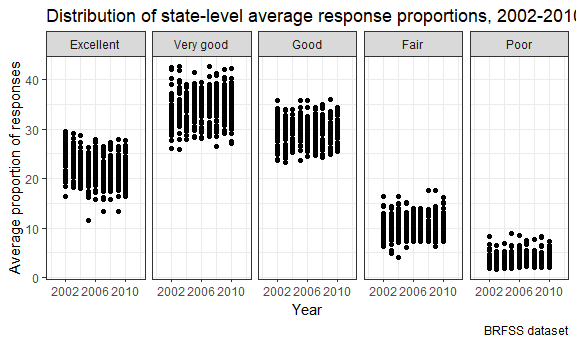
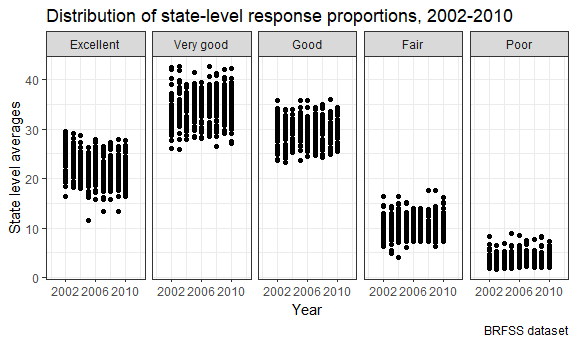
Instacart dataset and summary. Aisle summary, counts, and barplot.

Changed region(s): [[0.4062, 0.029, 1.0, 0.087], [0.0, 0.1739, 0.0625, 0.8116]]

diff --git a/p8105_hw3_azz2107.md b/p8105_hw3_azz2107.md
@@ -80,7 +80,7 @@ spaghetti_plot %>%
   theme(legend.position = "right")
 ```
 
-<img src="p8105_hw3_azz2107_files/figure-markdown_github/spaghetti_plot-1.png" width="90%" />
+<img src="p8105_hw3_azz2107_files/figure-markdown_github/spaghetti_plot-1.png" width="100%" />
 
 #### Descriptive variables for "Excellent" proportions in 2002, 2006, and 2010
 
@@ -116,17 +116,92 @@ response_df %>%
   scale_x_continuous(breaks = c(2002, 2006, 2010),
                      limits = c(2000, 2012)) + 
   labs(
-    title = "Distribution of state-level average response proportions, 2002-2010",
+    title = "Distribution of state-level response proportions, 2002-2010",
     x = "Year",
-    y = "Average proportion of responses",
+    y = "State level averages",
     caption = "BRFSS dataset"
   )
 ```
 
-<img src="p8105_hw3_azz2107_files/figure-markdown_github/response_df-1.png" width="90%" />
+<img src="p8105_hw3_azz2107_files/figure-markdown_github/response_df-1.png" width="100%" />
 
 Problem 2
 ---------
+
+#### Instacart summary
+
+``` r
+# Load instacard
+instacart_df = instacart
+
+instacart_df
+```
+
+    ## # A tibble: 1,384,617 x 15
+    ##    order_id product_id add_to_cart_ord~ reordered user_id eval_set
+    ##       <int>      <int>            <int>     <int>   <int> <chr>   
+    ##  1        1      49302                1         1  112108 train   
+    ##  2        1      11109                2         1  112108 train   
+    ##  3        1      10246                3         0  112108 train   
+    ##  4        1      49683                4         0  112108 train   
+    ##  5        1      43633                5         1  112108 train   
+    ##  6        1      13176                6         0  112108 train   
+    ##  7        1      47209                7         0  112108 train   
+    ##  8        1      22035                8         1  112108 train   
+    ##  9       36      39612                1         0   79431 train   
+    ## 10       36      19660                2         1   79431 train   
+    ## # ... with 1,384,607 more rows, and 9 more variables: order_number <int>,
+    ## #   order_dow <int>, order_hour_of_day <int>,
+    ## #   days_since_prior_order <int>, product_name <chr>, aisle_id <int>,
+    ## #   department_id <int>, aisle <chr>, department <chr>
+
+Instacart is an online grocery shopping company, and the instacard dataset contains information on online grocery orders from their customers. The instacart dataset includes 1384617 observations and 15 variables. Some of these key variables include product name, food aisle information (name, number, department), time or order (day of the week, hour of the day, days since last ordered). For example, there are 21 departments which range from snacks, frozen foods, to dairy and eggs...
+
+#### Aisle information
+
+There are 134 aisles in this dataset. Some examples of these include yogurt, fresh vegetables, and specialty cheeses. The aisle with the most counts of order. Most items are ordered from the fresh vegetable, fresh fruit, and packaged vegetables and fruits aisles.
+
+``` r
+# Group by aisles and summarize counts
+aisle_count = instacart_df %>% 
+  group_by(aisle) %>% 
+  summarize(n = n()) %>% 
+  arrange(desc(n)) 
+  
+aisle_count
+```
+
+    ## # A tibble: 134 x 2
+    ##    aisle                              n
+    ##    <chr>                          <int>
+    ##  1 fresh vegetables              150609
+    ##  2 fresh fruits                  150473
+    ##  3 packaged vegetables fruits     78493
+    ##  4 yogurt                         55240
+    ##  5 packaged cheese                41699
+    ##  6 water seltzer sparkling water  36617
+    ##  7 milk                           32644
+    ##  8 chips pretzels                 31269
+    ##  9 soy lactosefree                26240
+    ## 10 bread                          23635
+    ## # ... with 124 more rows
+
+``` r
+# Plot distribution of items ordered from each aisle
+ggplot(aisle_count, aes(x = reorder(aisle, order(n, decreasing = TRUE)), y = n)) +
+  geom_bar(stat = "identity") + 
+  labs(
+    title = "Number of items ordered from each aisle",
+    x = "Aisle Names",
+    y = "N",
+    caption = "Instacart Data"
+  ) + 
+  theme(axis.ticks = element_blank(), 
+        legend.position = "none",
+        axis.text.x = element_text(size = 3, angle = 290))
+```
+
+<img src="p8105_hw3_azz2107_files/figure-markdown_github/plot_aisle_count-1.png" width="100%" />
 
 Problem 3
 ---------
